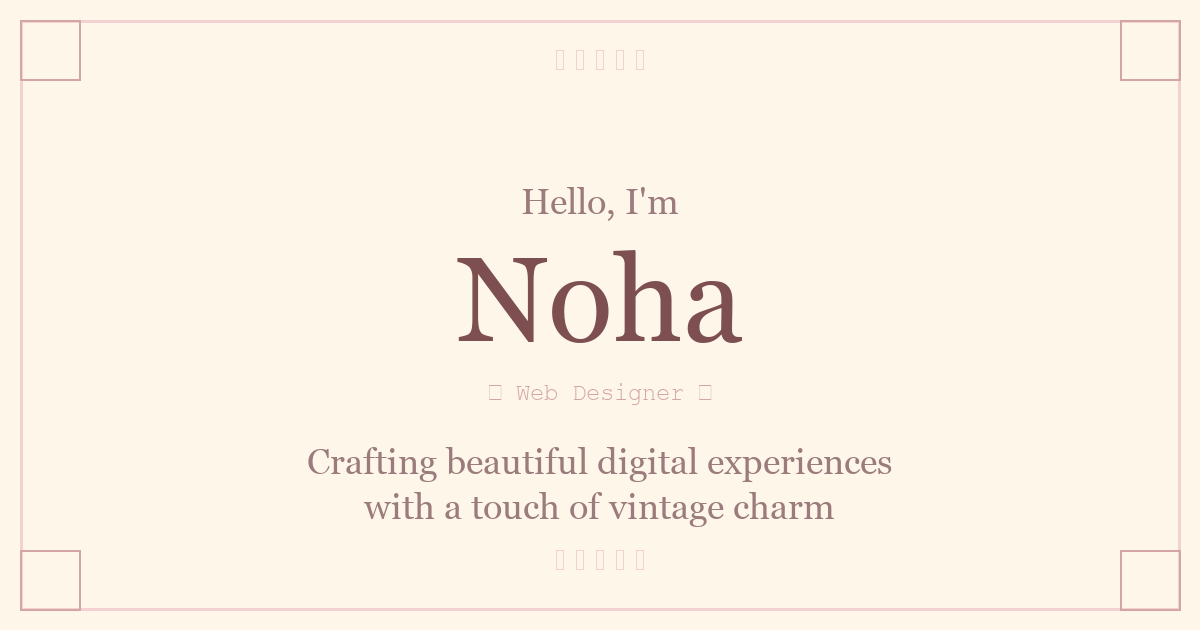
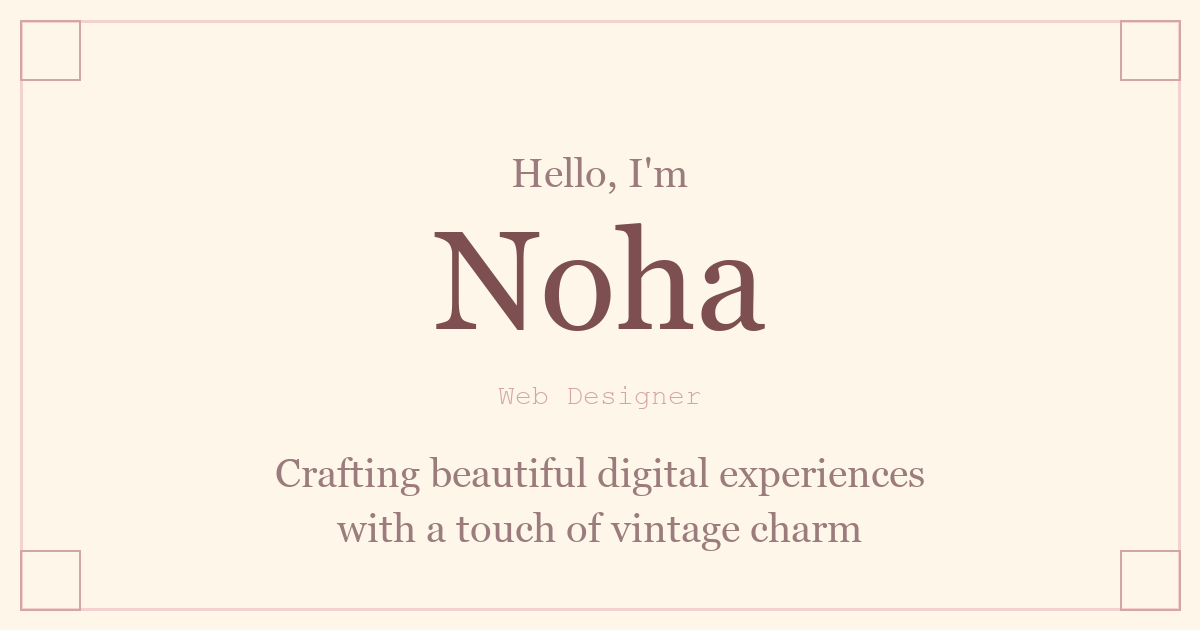
Fix OG image for WhatsApp compatibility
- Changed to JPEG format (better WhatsApp support)
- Added og:image:width (1200) and og:image:height (630)
- Added og:image:secure_url for HTTPS
- Added og:image:type and og:image:alt
- Regenerated image with optimized quality

Changed region(s): [[0.2158, 0.7238, 0.7708, 0.9048], [0.37, 0.2413, 0.6475, 0.5429], [0.4008, 0.6032, 0.5858, 0.6635]]

diff --git a/index.html b/index.html
@@ -10,19 +10,24 @@
     <meta name="keywords" content="web designer, portfolio, retro design, feminine design, UI/UX, branding">
     <meta name="author" content="Noha">
     
-    <!-- Open Graph / Facebook -->
+    <!-- Open Graph / Facebook / WhatsApp -->
     <meta property="og:type" content="website">
     <meta property="og:url" content="https://noha-portfolio-kappa.vercel.app/">
     <meta property="og:title" content="Noha | Web Designer">
     <meta property="og:description" content="Crafting beautiful digital experiences with a touch of vintage charm">
-    <meta property="og:image" content="https://noha-portfolio-kappa.vercel.app/assets/og-image.png">
+    <meta property="og:image" content="https://noha-portfolio-kappa.vercel.app/assets/og-image.jpg">
+    <meta property="og:image:secure_url" content="https://noha-portfolio-kappa.vercel.app/assets/og-image.jpg">
+    <meta property="og:image:type" content="image/jpeg">
+    <meta property="og:image:width" content="1200">
+    <meta property="og:image:height" content="630">
+    <meta property="og:image:alt" content="Noha - Web Designer Portfolio">
     
     <!-- Twitter -->
     <meta name="twitter:card" content="summary_large_image">
     <meta name="twitter:url" content="https://noha-portfolio-kappa.vercel.app/">
     <meta name="twitter:title" content="Noha | Web Designer">
     <meta name="twitter:description" content="Crafting beautiful digital experiences with a touch of vintage charm">
-    <meta name="twitter:image" content="https://noha-portfolio-kappa.vercel.app/assets/og-image.png">
+    <meta name="twitter:image" content="https://noha-portfolio-kappa.vercel.app/assets/og-image.jpg">
     
     <!-- Theme Color -->
     <meta name="theme-color" content="#7D4F50">
